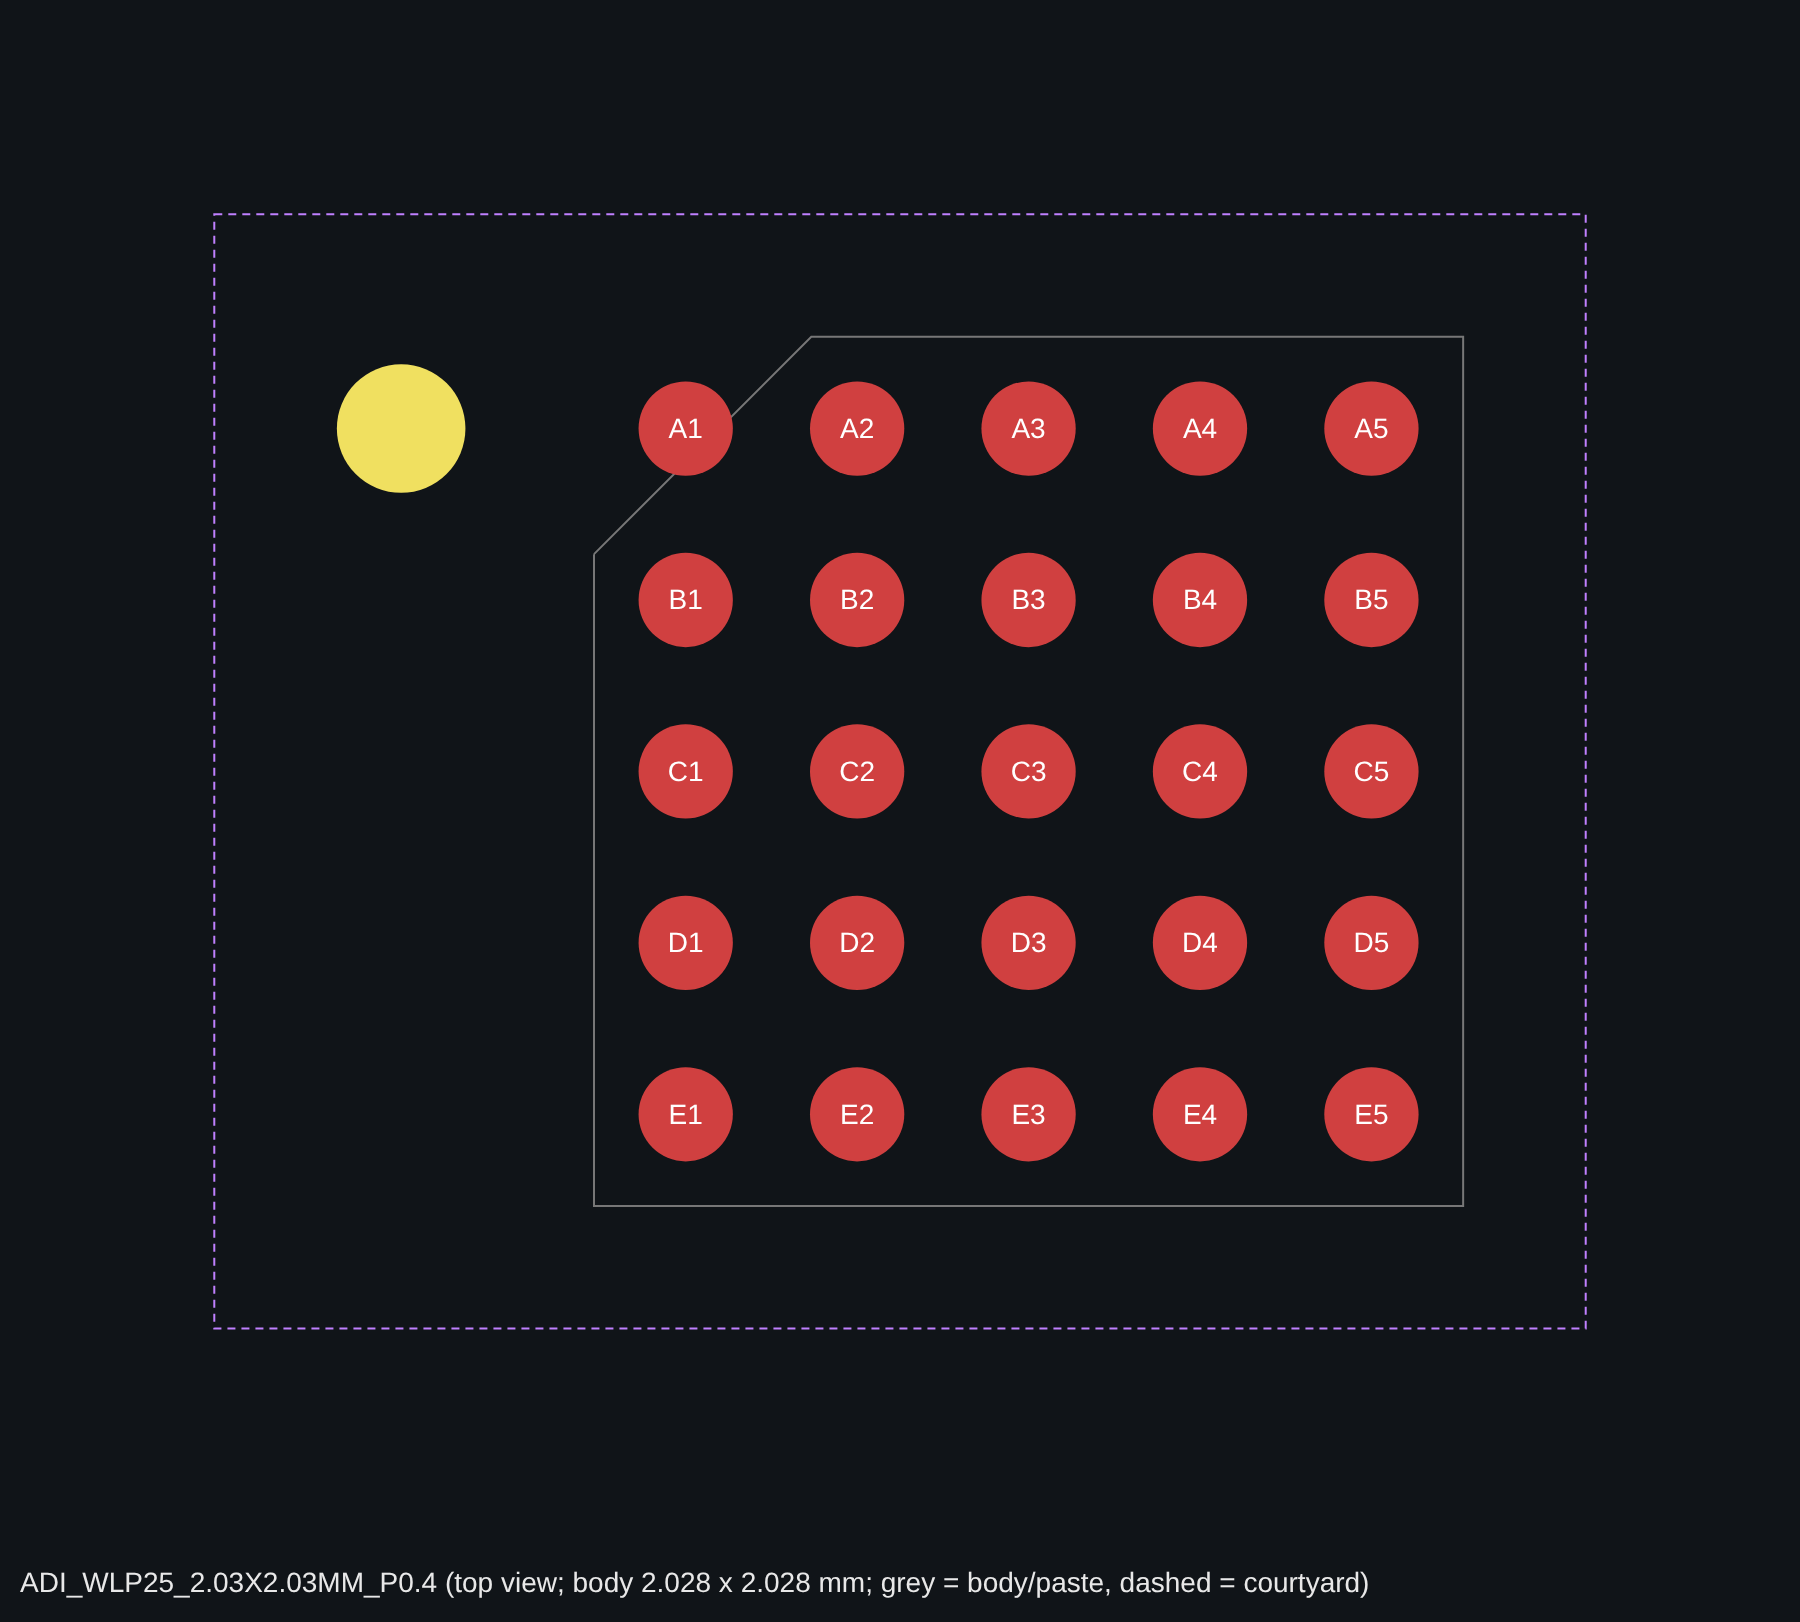
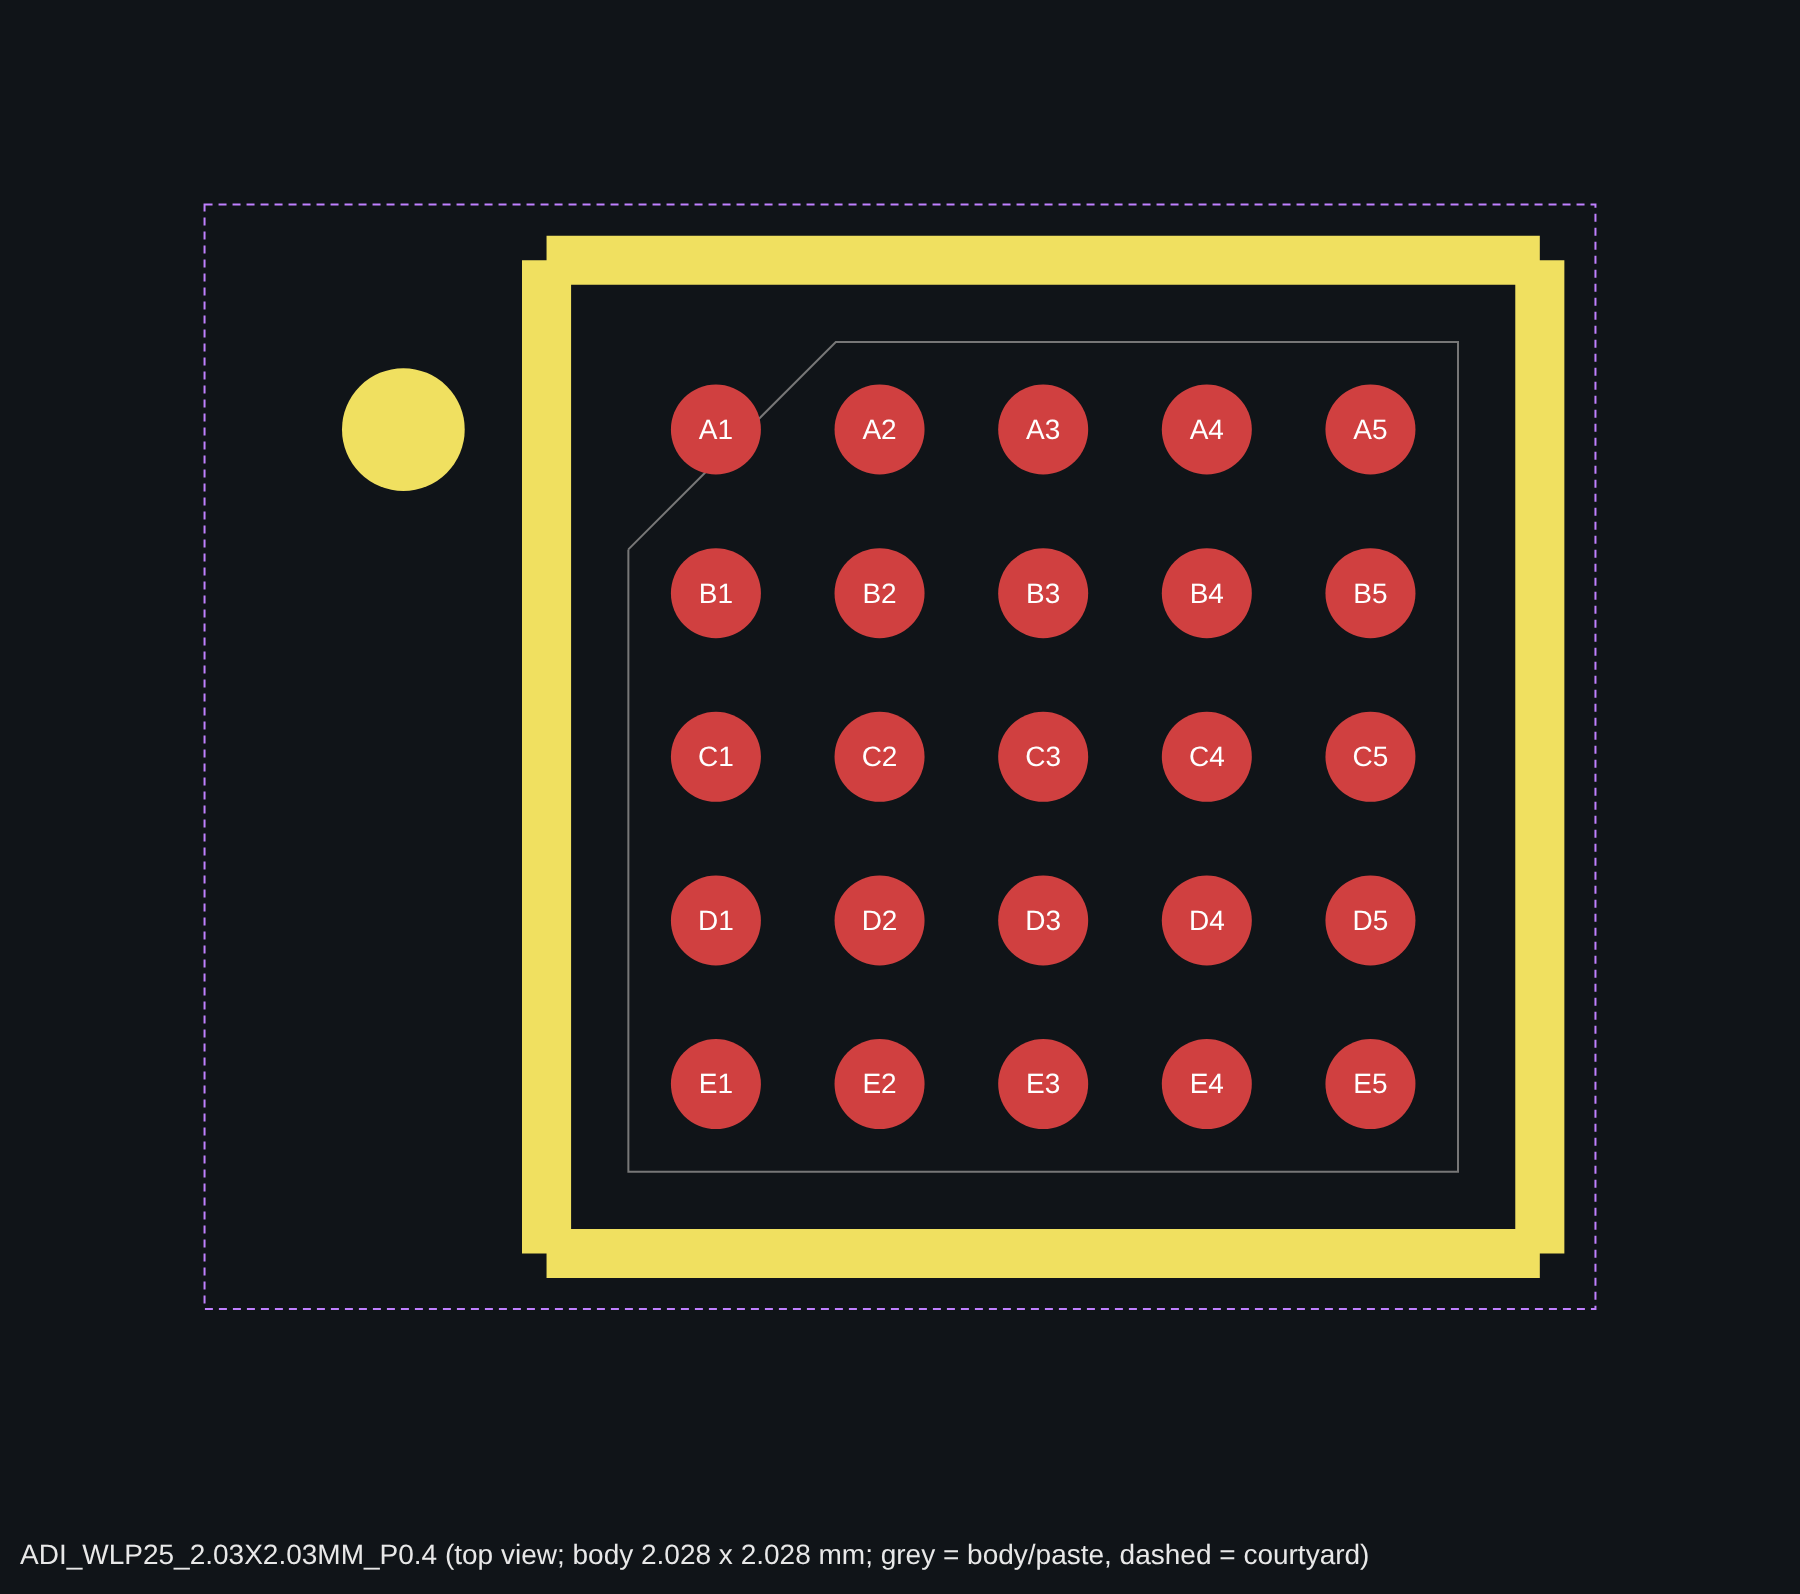
Keep MAX30009 silkscreen outline clear of the pad keep-out
At the default 0.1 mm offset the whole outline fell inside the pad
clearance zone and was clipped away. Move it to 0.2 mm and widen the
courtyard to 0.3 mm.

Claude-Session: https://claude.ai/code/session_01Bo2C1R8XQwqYpHVKbnpr5k

diff --git a/ENEL 500/Capstone PCB Library/MAX30009ENA+T/generator/build_spec.py b/ENEL 500/Capstone PCB Library/MAX30009ENA+T/generator/build_spec.py
@@ -62,7 +62,8 @@ def main(out):
             "mask_expansion": 0.03,
             "pads": pads,
             "pin1_pad": "A1",
-            "courtyard_expansion": 0.25,
+            "silk_offset": 0.2,          # 0.1 default is inside the pad keep-out (pad edge + 0.2 + w/2 = 1.17 mm)
+            "courtyard_expansion": 0.3,
         },
         "symbol": {
             "name": "MAX30009ENA+T",

diff --git a/ENEL 500/Capstone PCB Library/MAX30009ENA+T/README.md b/ENEL 500/Capstone PCB Library/MAX30009ENA+T/README.md
@@ -31,7 +31,7 @@ Don't use the Run button inside the script editor. The script itself is then the
 - Pad size: the outline gives no land pattern, and the data sheet only says "Refer to Application Note 1891". The pad is 80% of the nominal ball diameter (0.8 x 0.27 = 0.216, rounded to 0.22 mm), the usual NSMD rule. That leaves 0.18 mm copper to copper.
 - Solder mask expansion fixed at 0.03 mm per side (0.28 mm openings), which leaves a 0.12 mm mask web between neighbouring pads. The usual 0.1 mm rule would remove the web completely at this pitch.
 - Paste: same as the pad (0.22 mm circles).
-- Pin-1 dot outside the body next to A1, assembly outline with A1 chamfer on Mechanical 13, courtyard (body + 0.25 mm) on Mechanical 15. Height 0.50 mm (A max).
+- Pin-1 dot outside the body next to A1, assembly outline with A1 chamfer on Mechanical 13, silkscreen outline 0.2 mm outside the body (closer would overlap the pad clearance), courtyard (body + 0.3 mm) on Mechanical 15. Height 0.50 mm (A max).
 - No 3D model.
 
 ## Symbol
